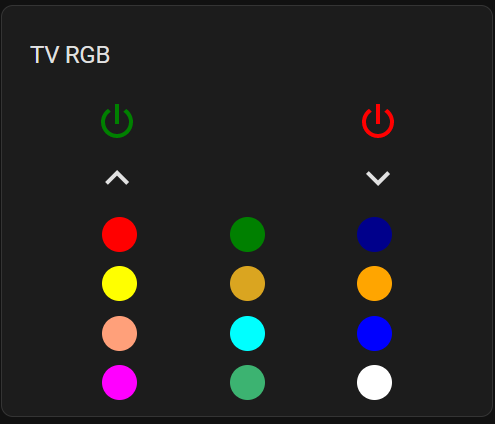
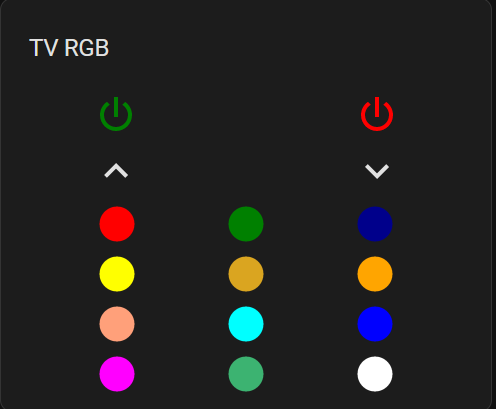
update link, change card to use mdi:circle instead of border radius

diff --git a/README.md b/README.md
@@ -1904,6 +1904,7 @@ rows:
     - 12
 custom_actions:
   '1':
+    icon: mdi:circle
     tap_action:
       action: call-service
       service: remote.send_command
@@ -1913,11 +1914,10 @@ custom_actions:
         device: Office TV Led
         command: red
     style:
-      height: 35px;
-      width: 35px;
-      background-color: red;
-      border-radius: 50%;
+      '--size': 42px
+      color: red
   '2':
+    icon: mdi:circle
     tap_action:
       action: call-service
       service: remote.send_command
@@ -1927,11 +1927,10 @@ custom_actions:
         device: Office TV Led
         command: green
     style:
-      height: 35px;
-      width: 35px;
-      background-color: green;
-      border-radius: 50%;
+      '--size': 42px
+      color: green;
   '3':
+    icon: mdi:circle
     tap_action:
       action: call-service
       service: remote.send_command
@@ -1941,11 +1940,10 @@ custom_actions:
         device: Office TV Led
         command: dark_blue
     style:
-      height: 35px;
-      width: 35px;
-      background-color: darkblue;
-      border-radius: 50%;
+      '--size': 42px
+      color: darkblue;
   '4':
+    icon: mdi:circle
     tap_action:
       action: call-service
       service: remote.send_command
@@ -1955,11 +1953,10 @@ custom_actions:
         device: Office TV Led
         command: yellow
     style:
-      height: 35px;
-      width: 35px;
-      background-color: yellow;
-      border-radius: 50%;
+      '--size': 42px
+      color: yellow;
   '5':
+    icon: mdi:circle
     tap_action:
       action: call-service
       service: remote.send_command
@@ -1969,11 +1966,10 @@ custom_actions:
         device: Office TV Led
         command: yellow-orange
     style:
-      height: 35px;
-      width: 35px;
-      background-color: goldenrod;
-      border-radius: 50%;
+      '--size': 42px
+      color: goldenrod;
   '6':
+    icon: mdi:circle
     tap_action:
       action: call-service
       service: remote.send_command
@@ -1983,11 +1979,10 @@ custom_actions:
         device: Office TV Led
         command: orange
     style:
-      height: 35px;
-      width: 35px;
-      background-color: orange;
-      border-radius: 50%;
+      '--size': 42px
+      color: orange;
   '7':
+    icon: mdi:circle
     tap_action:
       action: call-service
       service: remote.send_command
@@ -1997,11 +1992,10 @@ custom_actions:
         device: Office TV Led
         command: orange-light
     style:
-      height: 35px;
-      width: 35px;
-      background-color: lightsalmon;
-      border-radius: 50%;
+      '--size': 42px
+      color: lightsalmon;
   '8':
+    icon: mdi:circle
     tap_action:
       action: call-service
       service: remote.send_command
@@ -2011,11 +2005,10 @@ custom_actions:
         device: Office TV Led
         command: cyan
     style:
-      height: 35px;
-      width: 35px;
-      background-color: cyan;
-      border-radius: 50%;
+      '--size': 42px
+      color: cyan;
   '9':
+    icon: mdi:circle
     tap_action:
       action: call-service
       service: remote.send_command
@@ -2025,11 +2018,10 @@ custom_actions:
         device: Office TV Led
         command: blue
     style:
-      height: 35px;
-      width: 35px;
-      background-color: blue;
-      border-radius: 50%;
+      '--size': 42px
+      color: blue;
   '10':
+    icon: mdi:circle
     tap_action:
       action: call-service
       service: remote.send_command
@@ -2039,11 +2031,10 @@ custom_actions:
         device: Office TV Led
         command: pink
     style:
-      height: 35px;
-      width: 35px;
-      background-color: magenta;
-      border-radius: 50%;
+      '--size': 42px
+      color: magenta;
   '11':
+    icon: mdi:circle
     tap_action:
       action: call-service
       service: remote.send_command
@@ -2053,11 +2044,10 @@ custom_actions:
         device: Office TV Led
         command: green_light
     style:
-      height: 35px;
-      width: 35px;
-      background-color: mediumseagreen;
-      border-radius: 50%;
+      '--size': 42px
+      color: mediumseagreen;
   '12':
+    icon: mdi:circle
     tap_action:
       action: call-service
       service: remote.send_command
@@ -2067,10 +2057,8 @@ custom_actions:
         device: Office TV Led
         command: white
     style:
-      height: 35px;
-      width: 35px;
-      background-color: white;
-      border-radius: 50%;
+      '--size': 42px
+      color: white;
   power:
     tap_action:
       action: call-service
@@ -2112,8 +2100,9 @@ custom_actions:
       data:
         device: Office TV Led
         command: brightness-
+
 ```
-<img src="https://github.com/SylTi/android-tv-card/blob/main/assets/rgb.png" alt="rgb remote example" width="500"/>
+<img src="https://github.com/Nerwyn/android-tv-card/blob/main/assets/rgb.png" alt="rgb remote example" width="500"/>
 
 [last-commit-shield]: https://img.shields.io/github/last-commit/Nerwyn/android-tv-card?style=for-the-badge
 [commits]: https://github.com/Nerwyn/android-tv-card/commits/main
